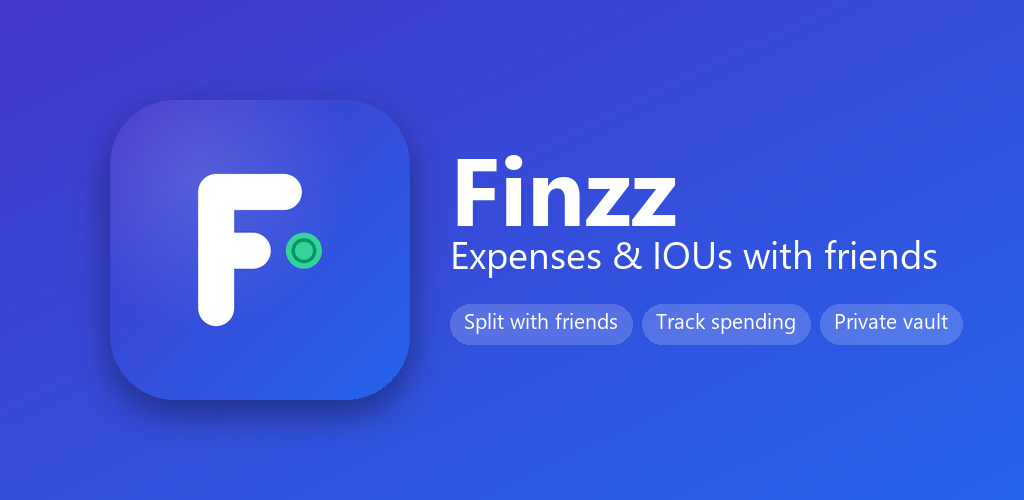
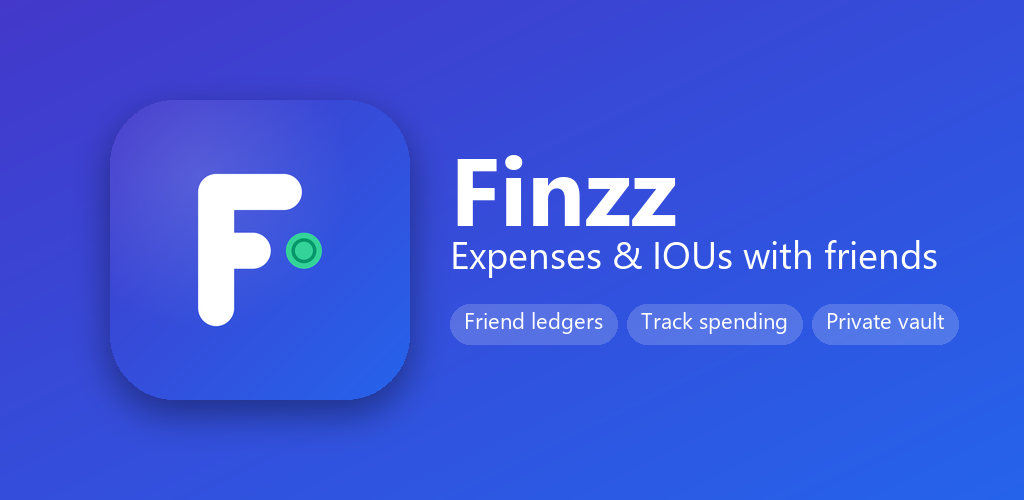
chore(store): feature graphic says 'Friend ledgers'; ledger screenshot uses the themed divider
'Split with friends' suggested automatic bill splitting, which Finzz doesn't do; it keeps a two-person ledger. The ledger screenshot matches the dark-mode divider fix.

Changed region(s): [[0.4375, 0.6, 0.9375, 0.69]]

diff --git a/store/screenshots/mock/02-ledger.html b/store/screenshots/mock/02-ledger.html
@@ -22,7 +22,7 @@
 .card{margin:0 16px;padding:16px;border-radius:20px;border:1px solid var(--separator);background:var(--surface-secondary);box-shadow:0 2px 8px rgba(0,0,0,.05)}
 .srow{display:flex;justify-content:space-around;align-items:center}
 .si{display:flex;flex-direction:column;align-items:center;flex:1}
-.sdiv{width:1px;height:40px;background:#E2E8F0;margin:0 8px}
+.sdiv{width:1px;height:40px;background:var(--border);margin:0 8px}
 .sl{font-size:10px;font-weight:600;text-align:center;letter-spacing:.5px;text-transform:uppercase;color:var(--text-secondary)}
 .sv{font-size:var(--fs-lg);font-weight:800;letter-spacing:-.5px}
 .ss{font-size:9px;font-weight:700;text-transform:uppercase;letter-spacing:.5px}

diff --git a/scripts/make-store-assets.py b/scripts/make-store-assets.py
@@ -174,7 +174,7 @@ def feature_graphic(concept):
     d = ImageDraw.Draw(fg)
     t1, t2 = "Finzz", "Expenses & IOUs with friends"
     b1, b2 = d.textbbox((0, 0), t1, font=f1), d.textbbox((0, 0), t2, font=f2)
-    pills = ["Split with friends", "Track spending", "Private vault"]
+    pills = ["Friend ledgers", "Track spending", "Private vault"]
     ps, pad, gap, ph = 22, 14, 10, 40
     while True:
         fp = font(REG, ps)
